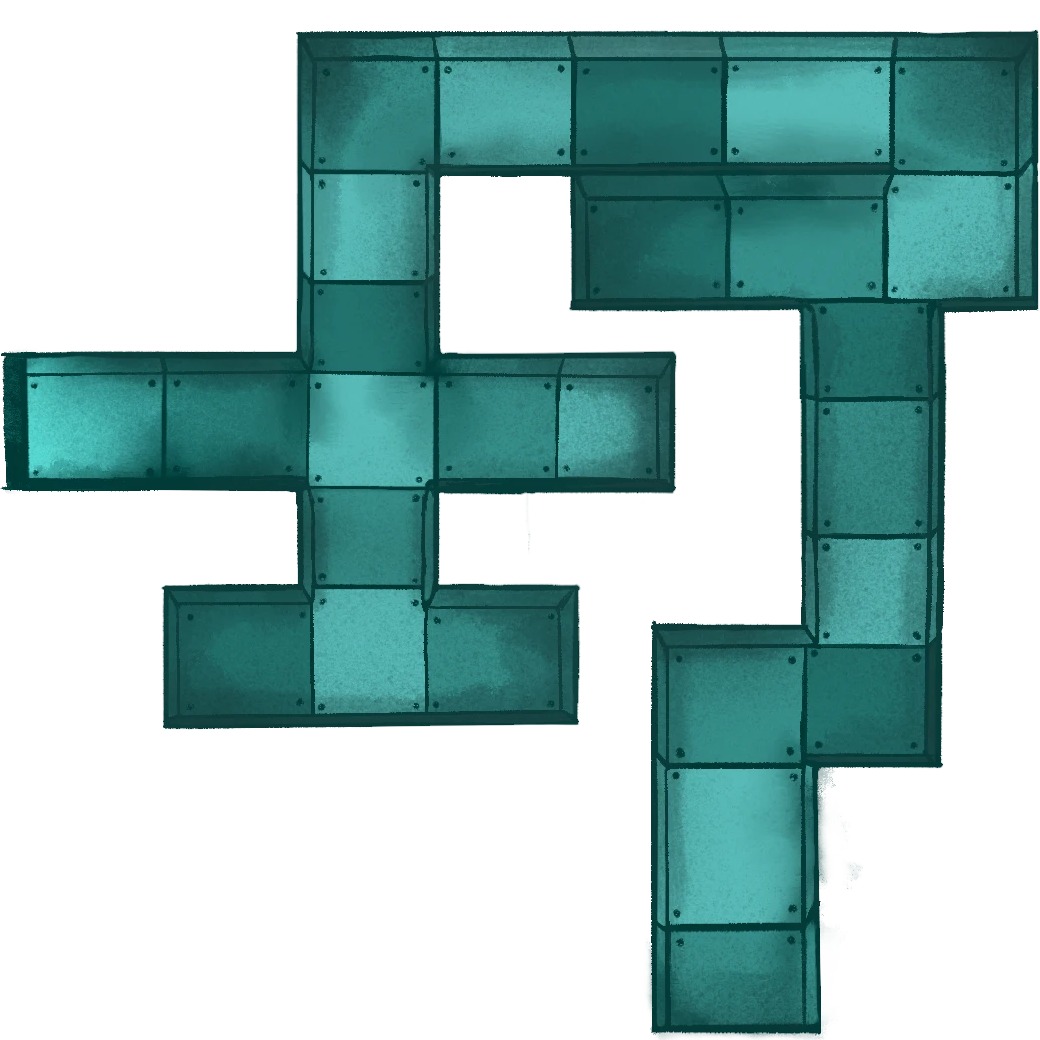
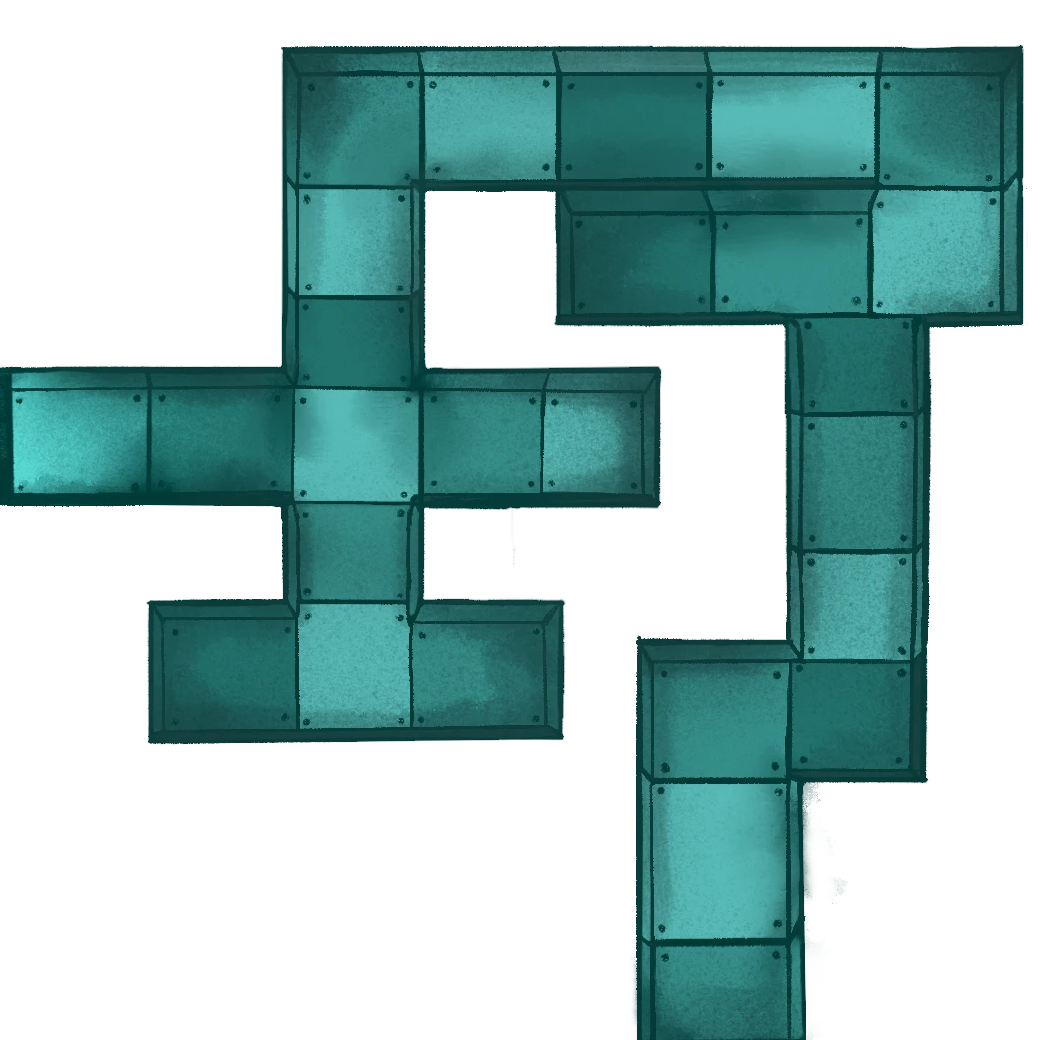
Replace the left mazes with the painted wooden maze
The maze painting is keyed out and cut into the North, West and South maze rooms, with walls
built from its transparency (thin painted walls included). It is scaled 2.6x, so the Control Room
moves up to meet its top and the Switch Room becomes a square in its gap, with a short passage
to the Lift Hall. Gas zones are stretched onto the new rooms. The player's collision circle
shrinks to fit the narrower corridors, and the vent duct art is re-cropped so its exits stay open.

Changed region(s): [[0.0, 0.0308, 1.0, 1.0]]

diff --git a/scenes/levels/README.md b/scenes/levels/README.md
@@ -31,12 +31,13 @@ and objects anywhere beneath it.
 - **Layout** is one text line per row: `#` is a wall cell, `.` is floor. **Cell Size** (75) is
   the size of one character in world pixels.
 - Keep corridors at least two cells wide, and open the cells in front of each door.
-- `level_04.tscn` has three mazes to copy from.
-- **From Painting** builds the walls from the room's painting instead: every transparent cell is
-  a wall, and nothing extra is drawn. Paint the corridors on a transparent background, so the
-  painting shows exactly where the player can go (see the vent duct, `EastMaze` in
-  `level_04.tscn`, with a Cell Size of 25). Corridors and doors must line up with the painted
-  floor.
+- **From Painting** builds the walls from the room's painting instead: every cell with any
+  transparent part is a wall (so thin painted walls block too), and nothing extra is drawn. Paint
+  the corridors on a transparent background, so the painting shows exactly where the player can
+  go. In `level_04.tscn` the left maze (`NorthMaze`, `WestMaze`, `SouthMaze`, Cell Size 10) is one
+  painting cut into three rooms, and the vent duct (`EastMaze`) is another. Where a corridor
+  crosses from one room into the next, cut the painting in the middle of the corridor and put a
+  door there, and make sure the painting's corridors reach the room edge at every door.
 
 ## Crawl spaces
 
